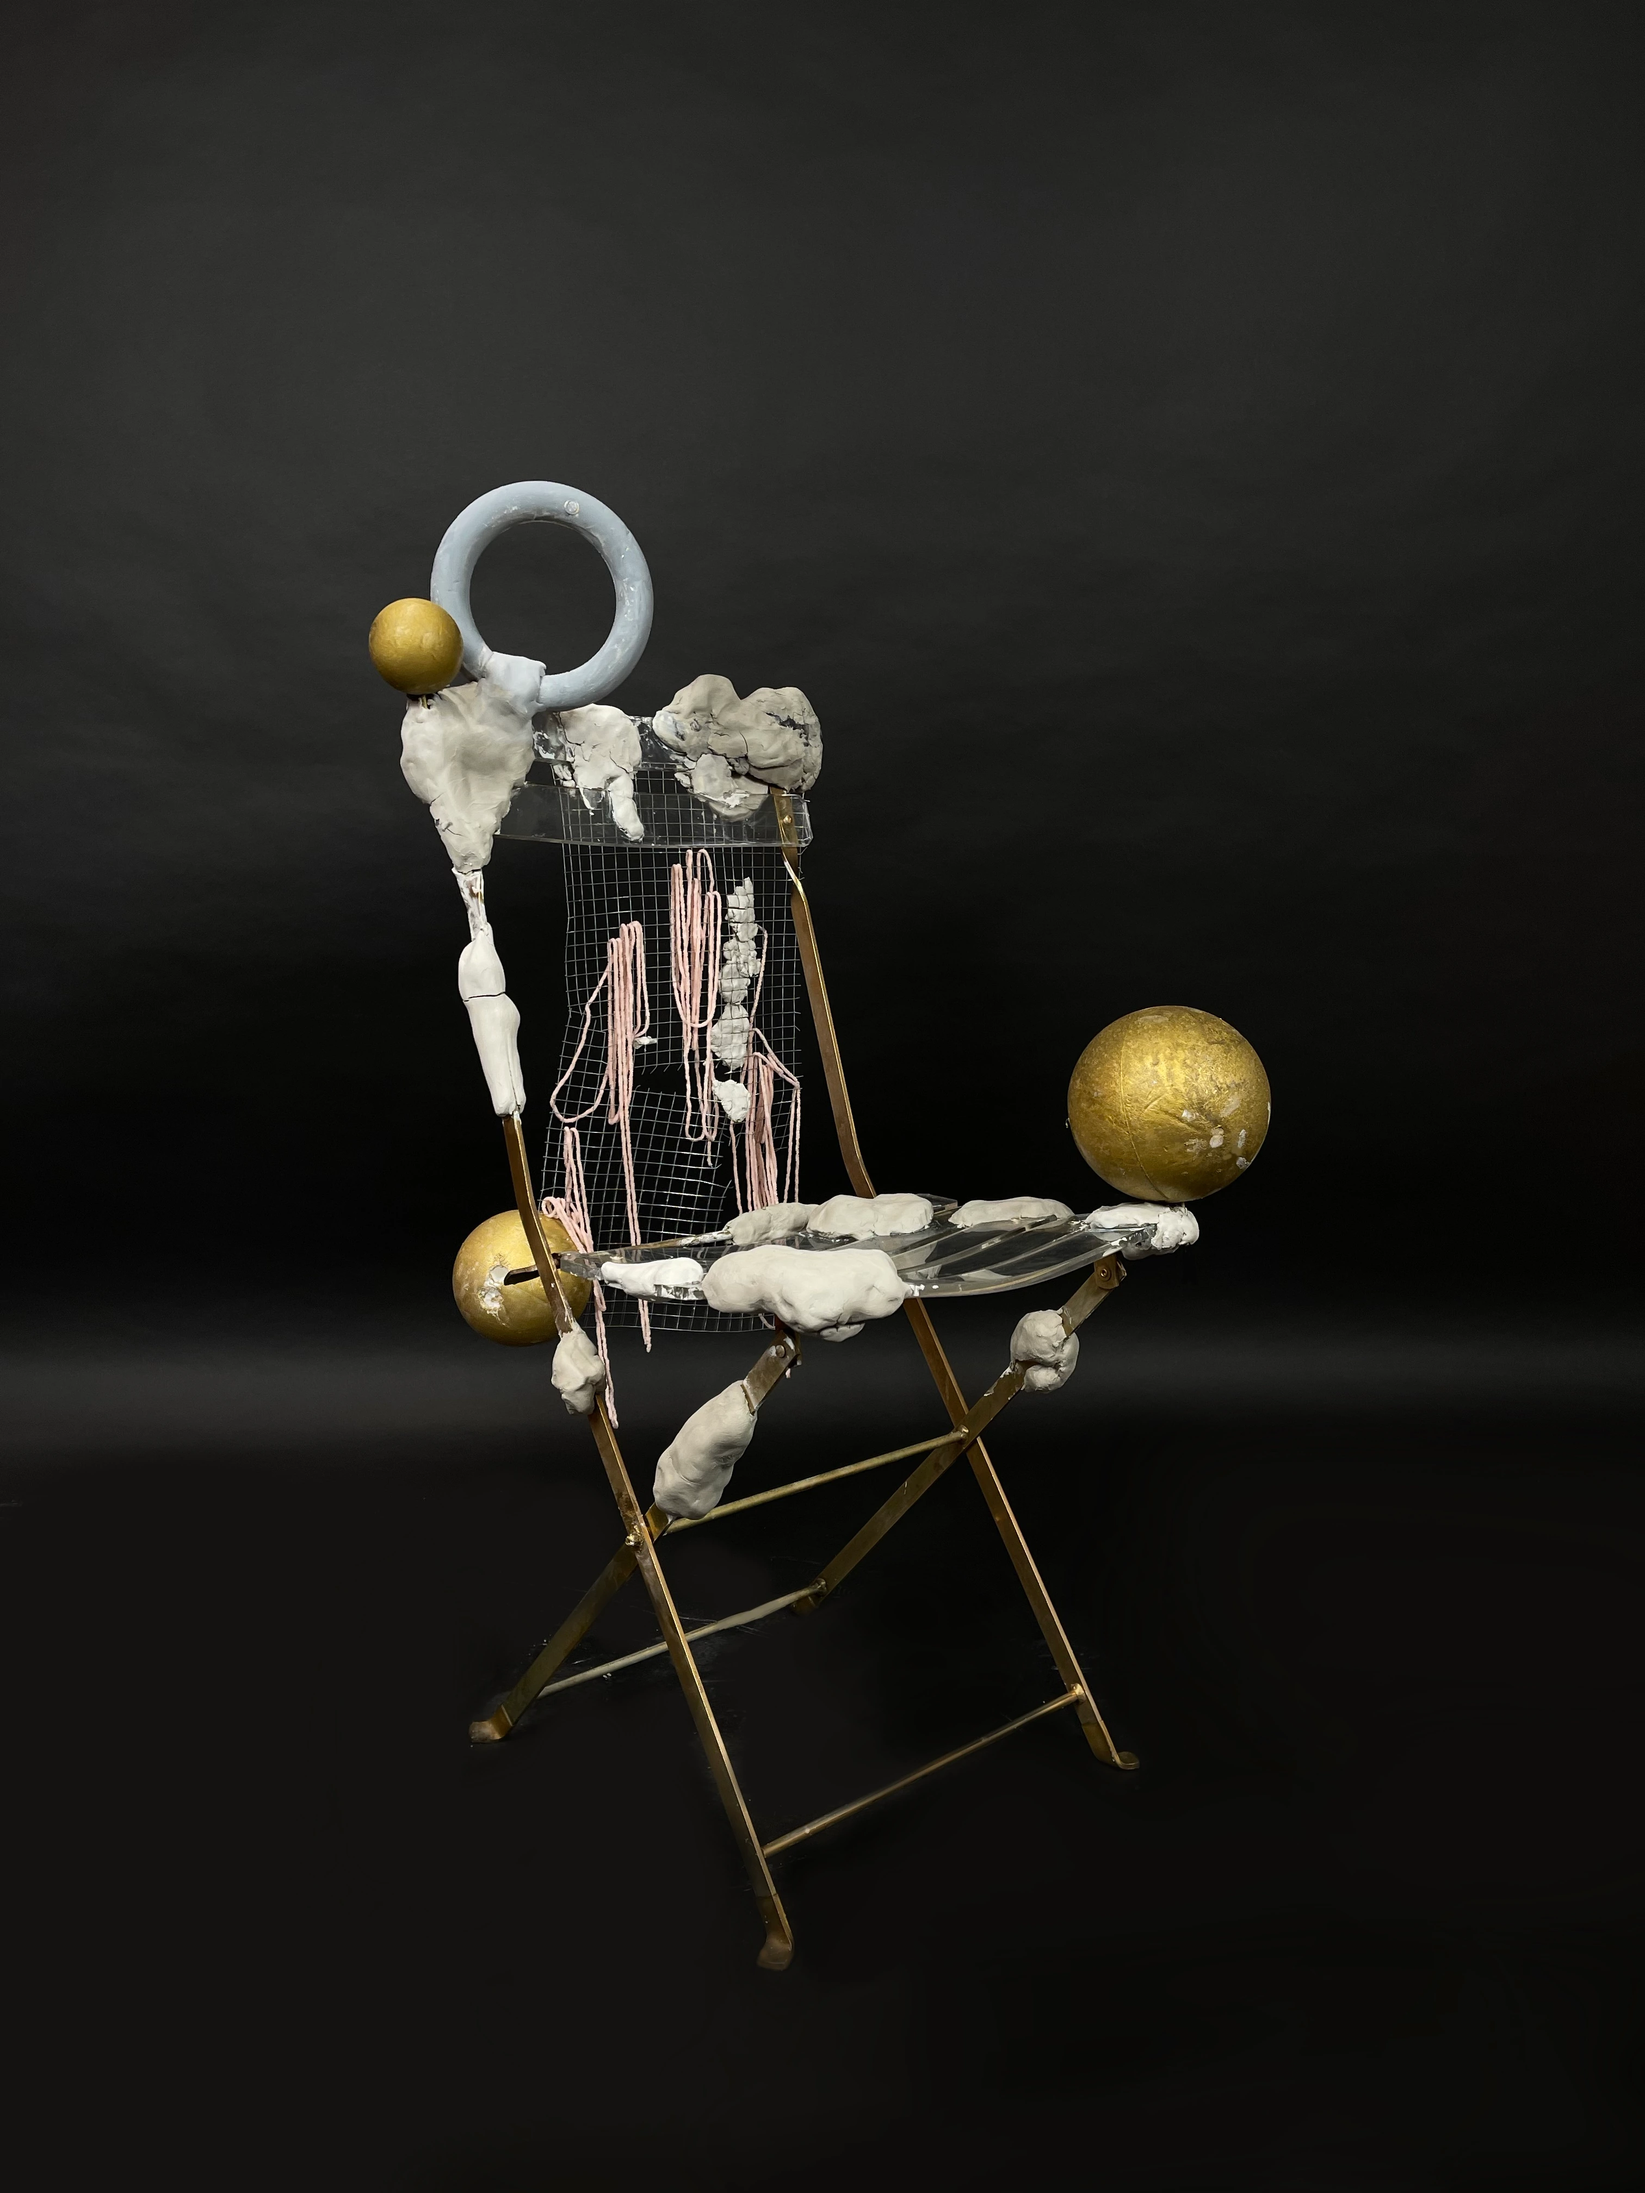
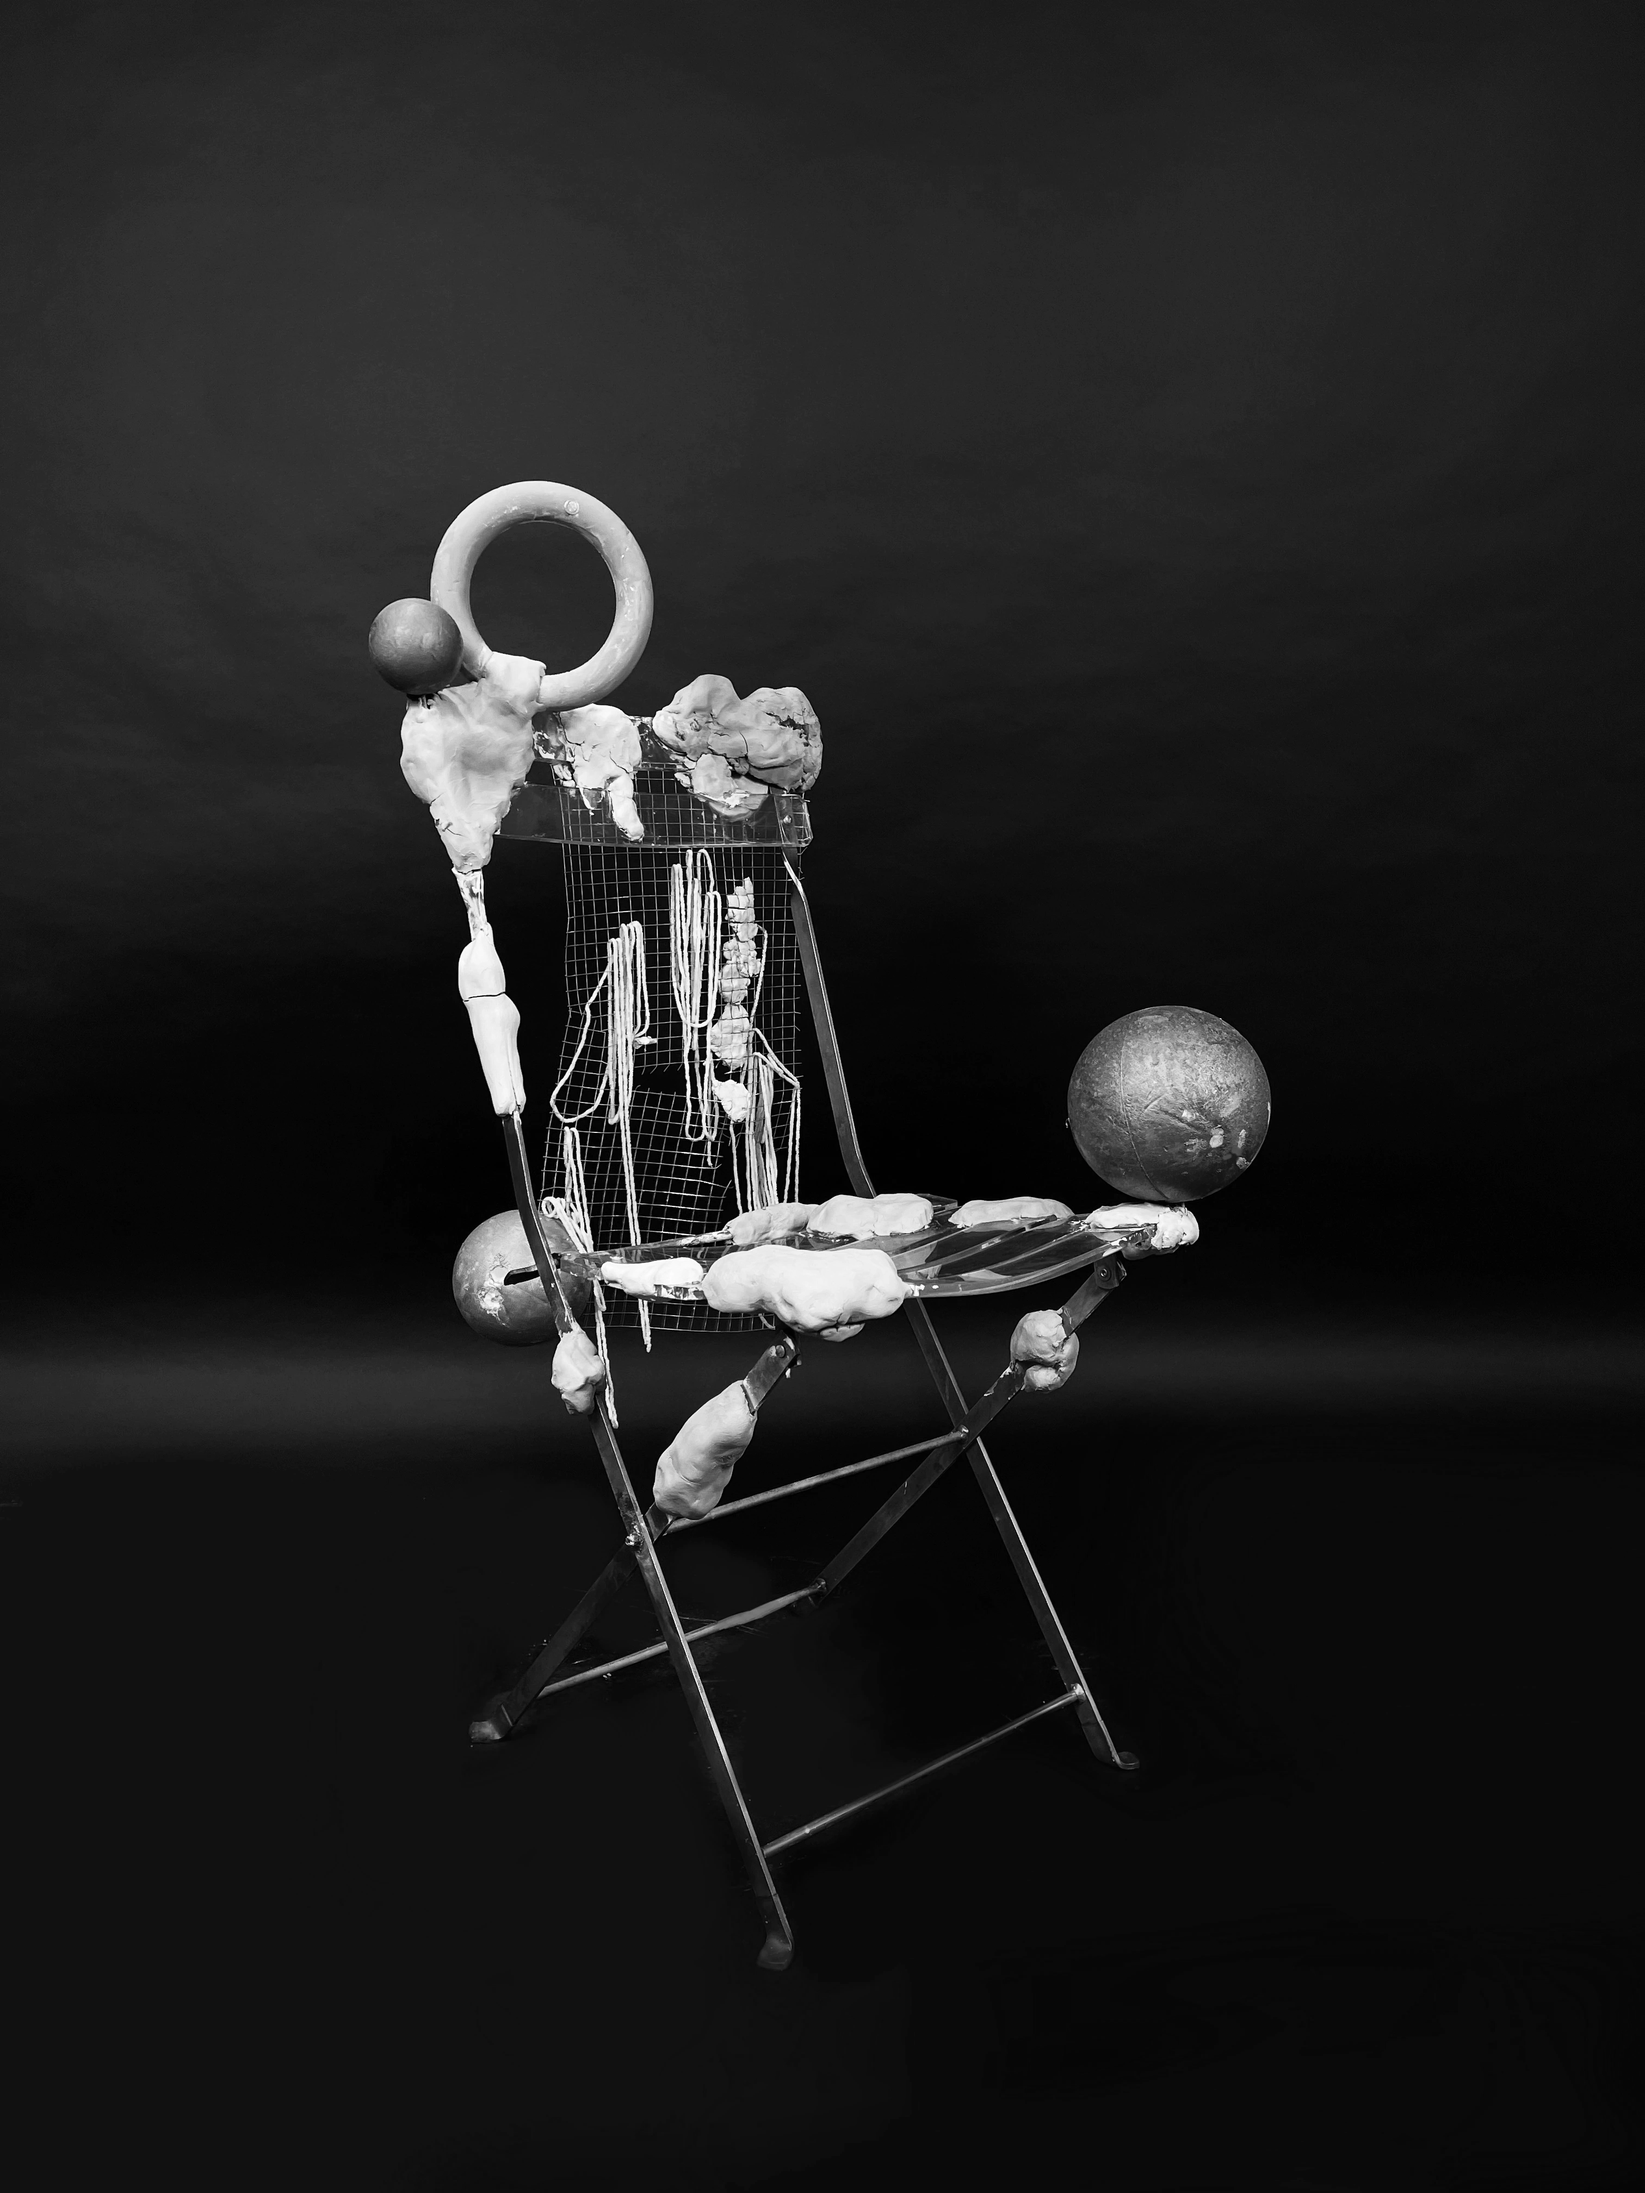
Fix digital page JavaScript and add scrolling to series container

diff --git a/digital.html b/digital.html
@@ -124,8 +124,7 @@
             const regularImageItems = document.querySelectorAll('.regular-images .image-item');
             
             regularImageItems.forEach(item => {
-                item.addEventListener('click', function(e) {
-                    e.stopPropagation();
+                item.addEventListener('click', function() {
                     const isExpanded = this.classList.contains('expanded');
                     
                     if (isExpanded) {
@@ -141,15 +140,17 @@
             });
             
             // Handle series images - only one series expanded at a time
-            const allSeries = document.querySelectorAll('.series');
+            const allSeriesContainers = document.querySelectorAll('.series');
             
-            allSeries.forEach(series => {
-                const seriesImagesContainer = series.querySelector('.series-images');
+            allSeriesContainers.forEach(seriesContainer => {
+                const seriesImagesContainer = seriesContainer.querySelector('.series-images');
+                if (!seriesImagesContainer) return;
+                
                 const seriesItems = seriesImagesContainer.querySelectorAll('.image-item');
                 
                 seriesItems.forEach(item => {
-                    item.addEventListener('click', function(e) {
-                        e.stopPropagation();
+                    item.addEventListener('click', function() {
+                        // Check if any image in this series is expanded
                         const isAnyExpanded = Array.from(seriesItems).some(img => img.classList.contains('expanded'));
                         
                         if (isAnyExpanded) {
@@ -159,20 +160,21 @@
                                 img.classList.add('collapsed');
                             });
                         } else {
-                            // Collapse all other series (but keep regular images expanded)
-                            allSeries.forEach(otherSeries => {
-                                if (otherSeries !== series) {
-                                    const otherSeriesImages = otherSeries.querySelector('.series-images');
-                                    const otherSeriesItems = otherSeriesImages.querySelectorAll('.image-item');
-                                    otherSeriesItems.forEach(img => {
-                                        if (img.classList.contains('expanded')) {
+                            // First, collapse all other series
+                            allSeriesContainers.forEach(otherSeriesContainer => {
+                                if (otherSeriesContainer !== seriesContainer) {
+                                    const otherSeriesImages = otherSeriesContainer.querySelector('.series-images');
+                                    if (otherSeriesImages) {
+                                        const otherSeriesItems = otherSeriesImages.querySelectorAll('.image-item');
+                                        otherSeriesItems.forEach(img => {
                                             img.classList.remove('expanded');
                                             img.classList.add('collapsed');
-                                        }
-                                    });
+                                        });
+                                    }
                                 }
                             });
-                            // Expand all images in this series
+                            
+                            // Then expand all images in this series
                             seriesItems.forEach(img => {
                                 img.classList.remove('collapsed');
                                 img.classList.add('expanded');

diff --git a/page-styles.css b/page-styles.css
@@ -121,6 +121,8 @@ body {
 /* Series layout for digital page */
 .series-container {
     width: 100%;
+    min-height: 100vh;
+    overflow-y: auto;
     padding-top: 60px;
 }
 
